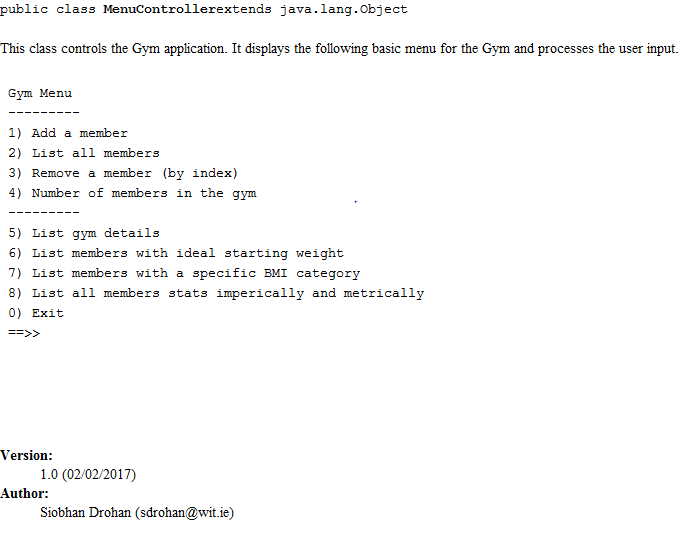
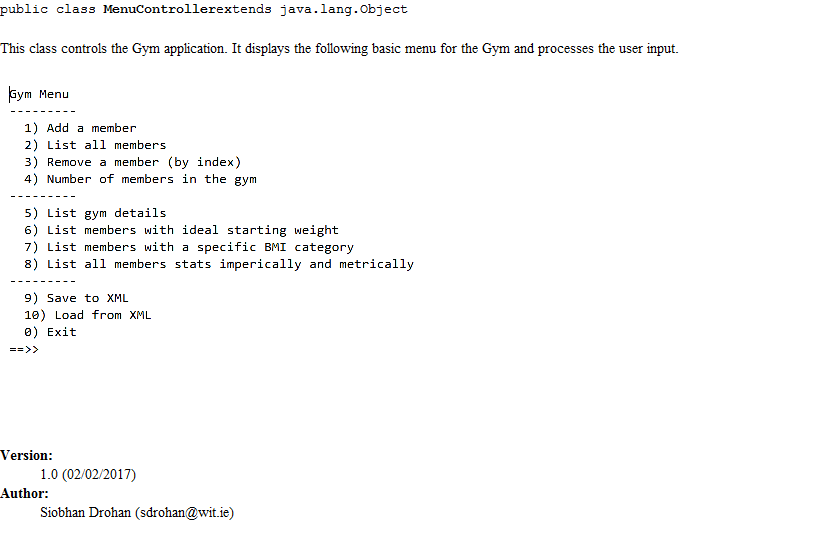
updating images in step07 and step08

diff --git a/topic00-assignments/book-a/index.html b/topic00-assignments/book-a/index.html
@@ -372,34 +372,36 @@ body
       <div  class="ui tab segment lab" data-tab="08">
         <h1>MenuController class - menu choices</h1>
 <p>Once the user has entered the gym details, the main menu is displayed</p>
-<p><img src="img/menu03.png" alt="Figure 1: The main menu"></p>
+<p><img src="img/menu03.png" alt="The main menu"></p>
 <p>Below you will find information on each of the menu choices listed in the main menu.</p>
 <h2>Menu Option 1 - Add a member</h2>
-<p><img src="img/menu04.png" alt="Figure 2: Adding a member"></p>
+<p><img src="img/menu04.png" alt="Adding a member"></p>
 <h2>Menu Option 2 - List all members</h2>
-<p><img src="img/menu05.png" alt="Figure 3: Listing all members when one member exists"></p>
-<p><img src="img/menu14.png" alt="Figure 4: Listing all members when multiple members exist"></p>
-<p><img src="img/menu09.png" alt="Figure 4: Listing all members when NO members exist"></p>
+<p><img src="img/menu05.png" alt="Listing all members when one member exists"></p>
+<p><img src="img/menu14.png" alt="Listing all members when multiple members exist"></p>
+<p><img src="img/menu09.png" alt="Listing all members when NO members exist"></p>
 <h2>Menu Option 3 - Remove a member (by index)</h2>
-<p><img src="img/menu07.png" alt="Figure 5: Removing a member that doesn&#39;t exist"></p>
-<p><img src="img/menu08.png" alt="Figure 6: Removing a member that exists"></p>
+<p><img src="img/menu07.png" alt="Removing a member that doesn&#39;t exist"></p>
+<p><img src="img/menu08.png" alt="Removing a member that exists"></p>
 <h2>Menu Option 4 - Number of members in the gym</h2>
-<p><img src="img/menu06.png" alt="Figure 4: Number of members in the gym"></p>
+<p><img src="img/menu06.png" alt="Number of members in the gym"></p>
 <h2>Menu Option 5 - List gym details</h2>
-<p><img src="img/menu10.png" alt="Figure 4: Listing gym details when NO members exist"></p>
+<p><img src="img/menu10.png" alt="Listing gym details when NO members exist"></p>
 <h2>Menu Option 6 - List members with ideal starting weight</h2>
-<p><img src="img/menu15.png" alt="Figure 1: List members with ideal starting weight"></p>
+<p><img src="img/menu15.png" alt="List members with ideal starting weight"></p>
 <h2>Menu Option 7 - List members with a specific BMI category</h2>
-<p><img src="img/menu16.png" alt="Figure 1: List members with a specific BMI category, when a category exists"></p>
-<p><img src="img/menu17.png" alt="Figure 1: List members with a specific BMI category, when NO category exists"></p>
+<p><img src="img/menu16.png" alt="List members with a specific BMI category, when a category exists"></p>
+<p><img src="img/menu17.png" alt="List members with a specific BMI category, when NO category exists"></p>
 <h2>Menu Option 8 - List all members stats imperically and metrically</h2>
-<p><img src="img/menu11.png" alt="Figure 1: List all members stats imperically and metrically"></p>
-<h2>Menu Option 9 - or any invalid menu option</h2>
-<p><img src="img/menu12.png" alt="Figure 1: Invalid menu option entered"></p>
+<p><img src="img/menu11.png" alt="List all members stats imperically and metrically"></p>
+<h2>Menu Option 9 - Save to XML</h2>
+<p><img src="img/menu18.png" alt="Save members to XML file"></p>
+<h2>Menu Option 10 - Load from XML</h2>
+<p><img src="img/menu19.png" alt="Load members from XML file"></p>
+<h2>Menu Option 11 - or any invalid menu option</h2>
+<p><img src="img/menu12.png" alt="Invalid menu option entered"></p>
 <h2>Menu Option 0 - Exit</h2>
-<p><img src="img/menu13.png" alt="Figure 1: Exiting system"></p>
-<h2>Additional menu items</h2>
-<p>You should also aim to have persistence built into your app...ie save the arraylist to XML and read it back in.  You should refactor the above menu to allow for this.</p>
+<p><img src="img/menu13.png" alt="Exiting system"></p>
 
       </div>
      
